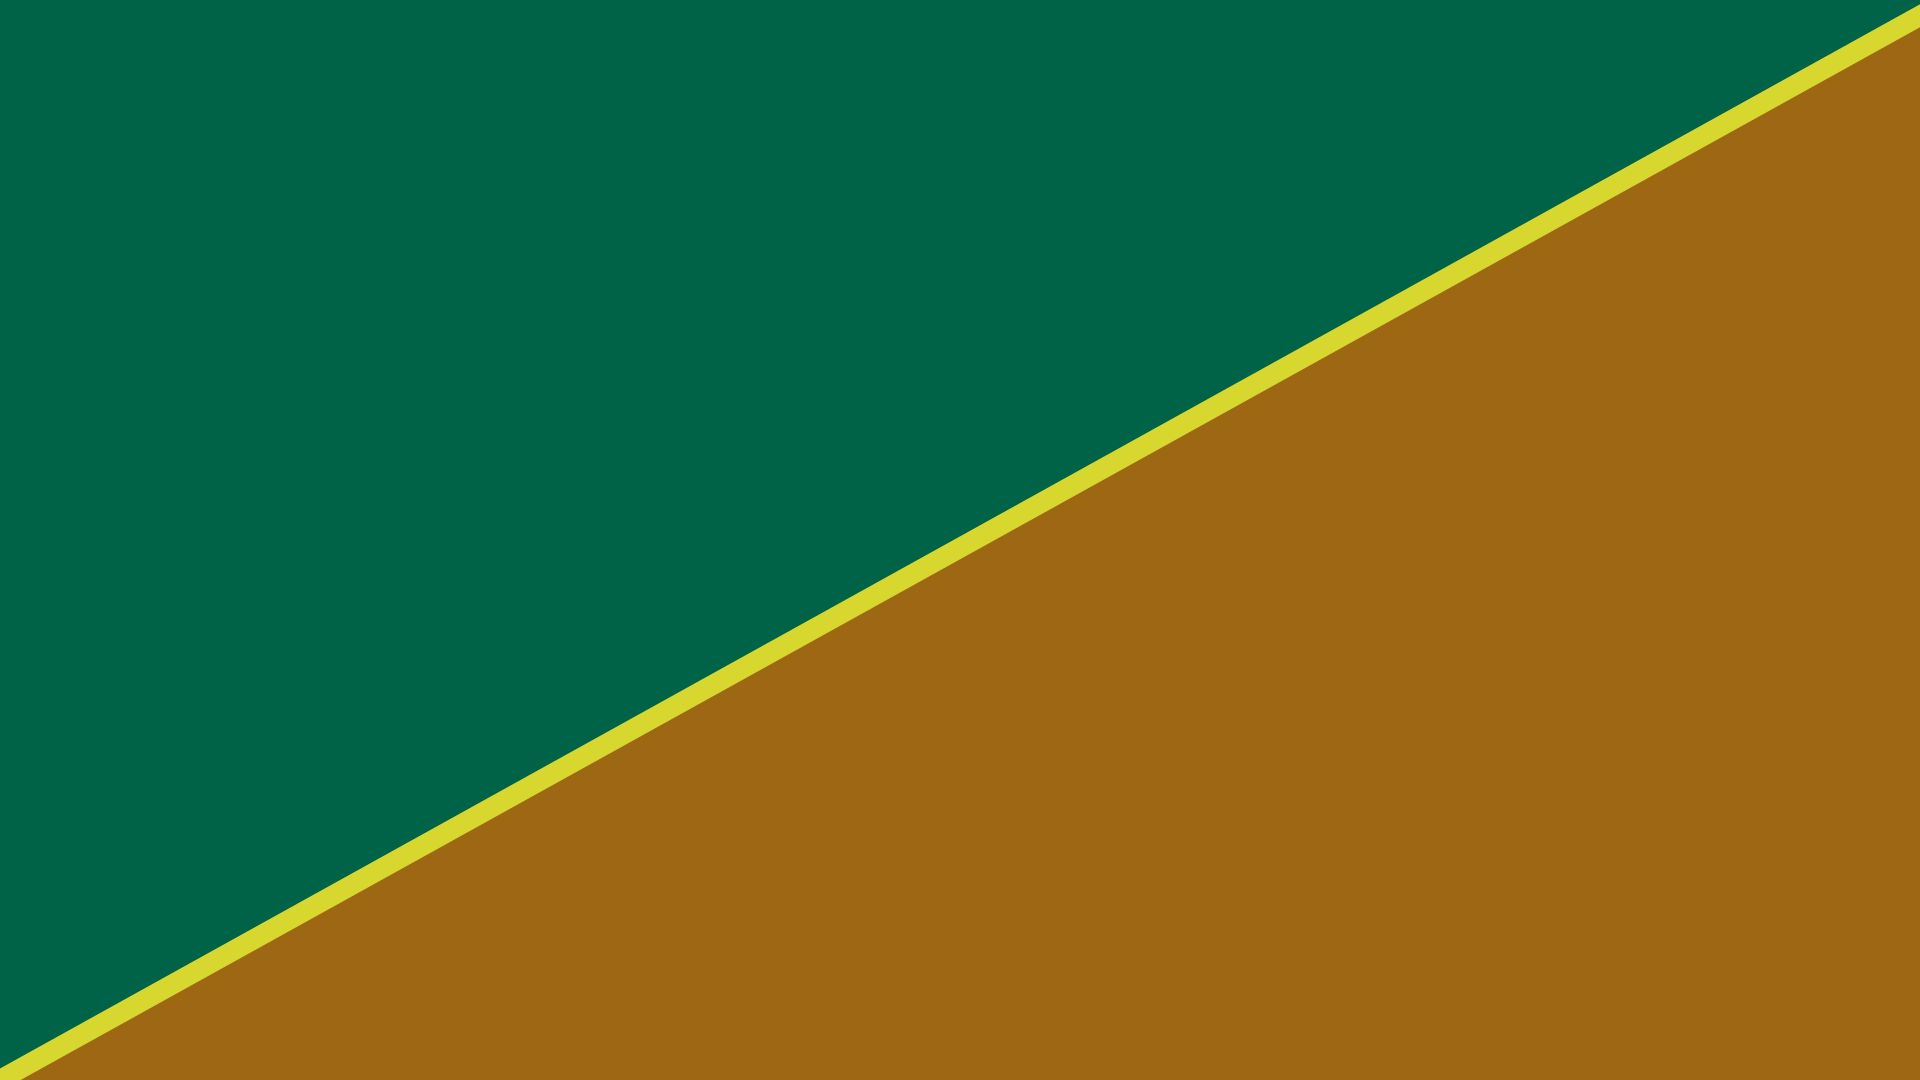
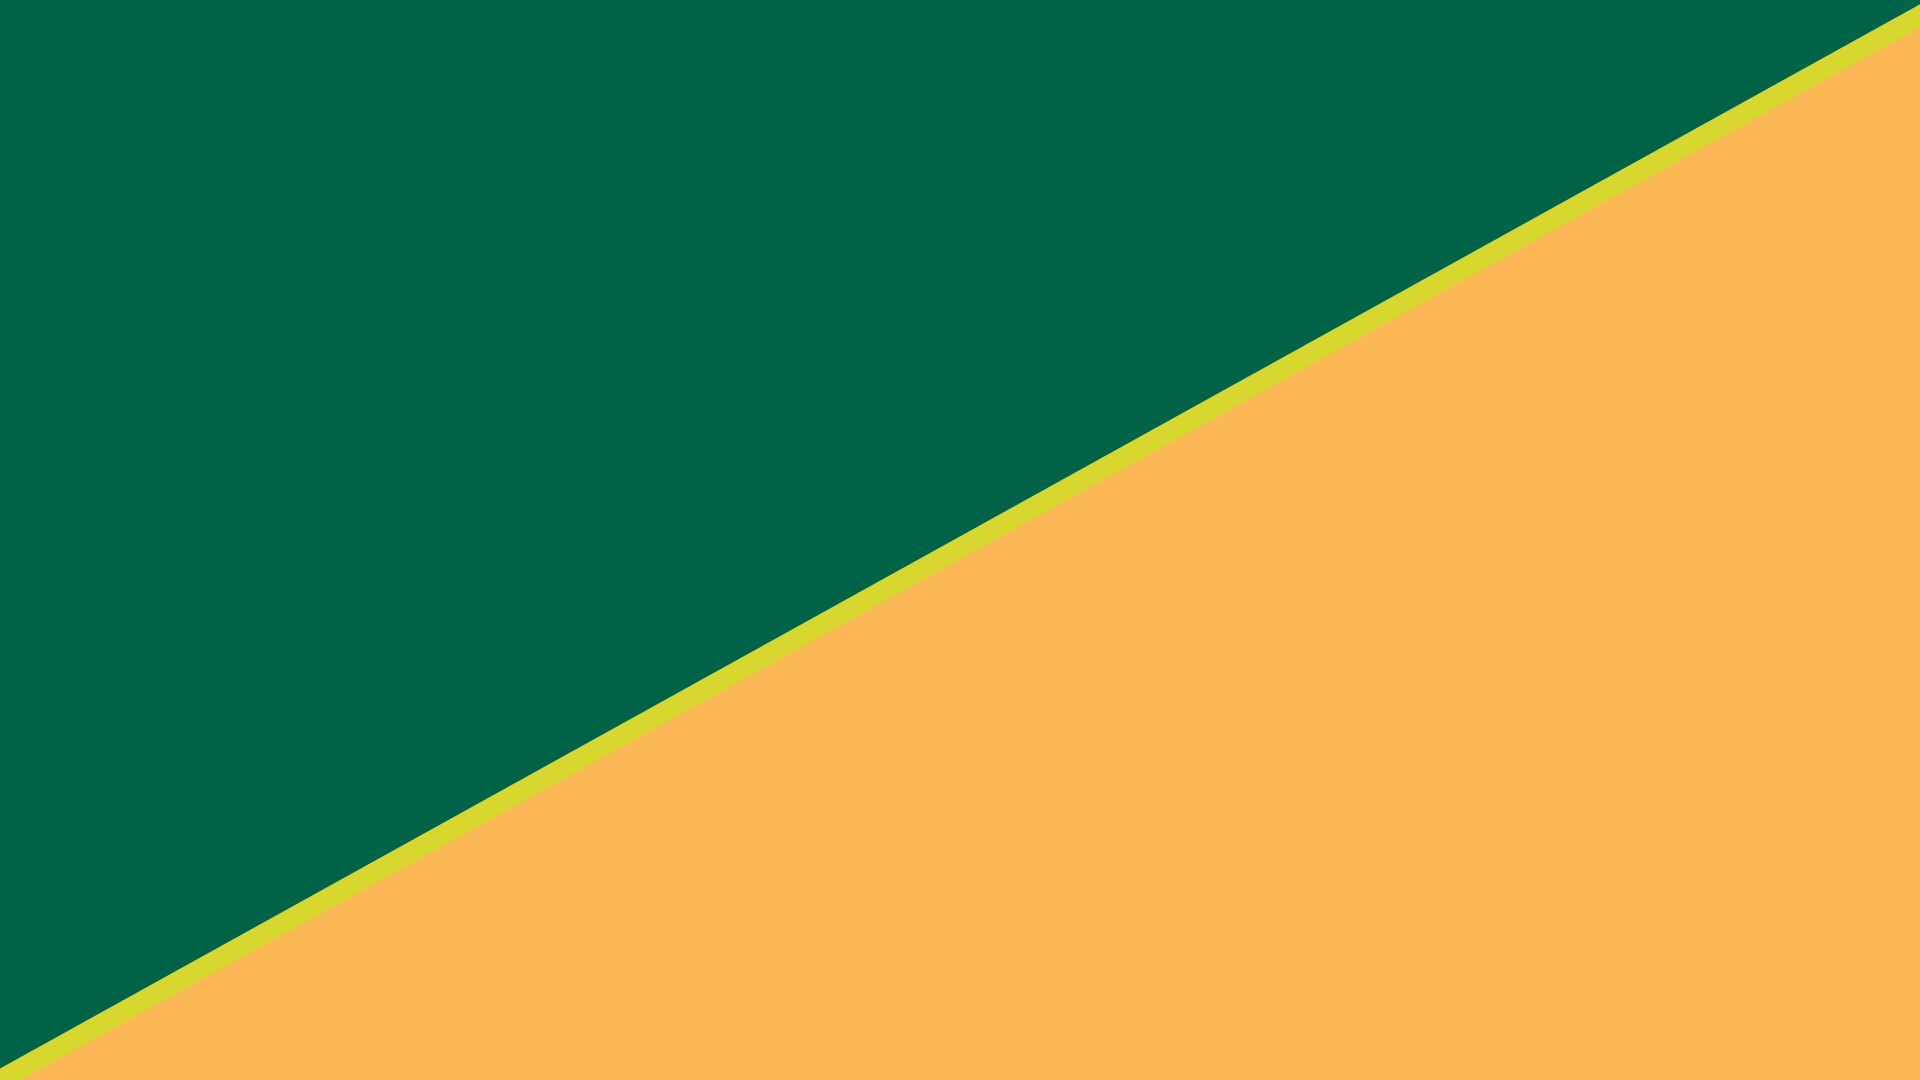
products descktop section completed

diff --git a/verchis.css b/verchis.css
@@ -296,6 +296,9 @@ h1,h2,p{
     width: 50%;
     height: 100%;
 }
+.section_products_container_product1_description_name{
+    display: none;
+}
 .section_products_container_product1_descriptioncontainer_description{
     color: #8C8C8C;
     font-size: 12px;
@@ -715,7 +718,7 @@ h1,h2,p{
     }
     .section_news_title{
         font-size: 48px;
-        margin-left: 35px;
+        margin-left: 70px;
         color: #585858;
         font-weight: 800;
     }
@@ -773,18 +776,222 @@ h1,h2,p{
     .section_news_selection_div_option_1{
         width: 20px;
         height: 20px;
-        background-color: #D9D9D9;
-        border-radius: 100%;
     }
     .section_news_selection_div_option_2{
         width: 20px;
         height: 20px;
-        background-color: #AAAAAA;
-        border-radius: 100%;
         margin-left: 20px;
         margin-right: 20px;
     }
     .section_news_selection_div_option_3{
+        width: 20px;
+        height: 20px;
+    }
+    .section_products{
+        display: flex;
+        flex-direction: column;
+        align-items: start;
+        width: 100%;
+    }
+    
+    .section_products_title{
+        color: #585858;
+        margin-left: 70px;
+        font-size: 48px;
+    }
+    .section_products_container_product1_name{
+        display: none;
+    }
+    
+    .section_products_container_product1{
+        background-color: #006347;
+        height: 500px;
+        width: 100%;
+    }
+    .section_products_container_product1_imgcontainer{
+        margin: 0;
+        height: 100%;
+        width: 100%;
+        display: flex;
+        justify-content: center;
+    }
+    .section_products_container_product1_imgcontainer_elemenstcontainer{
+        display: flex;
+        justify-content: center;
+        align-items: center;
+        height: 100%;
+        width: 100%;
+    }
+    .section_products_container_product1_imgcontainer_elemenstcontainer_arrow_left{
+        stroke: white;
+        height: 94px;
+        width: 94px;
+    }
+    .section_products_container_product1_imgcontainer_elemenstcontainer_img{
+        background-color: gray;
+        height: 90%;
+        width: 60%;
+    }
+    .section_products_container_product1_imgcontainer_elemenstcontainer_arrow_right{
+        stroke: white;
+        height: 94px;
+        width: 94px;
+    }
+    .section_products_container_product1_descriptioncontainer{
+        width: 100%;
+        height: 100%;
+        display: flex;
+        justify-content: center;
+        flex-direction: column;
+        align-items: center;
+    }
+    .section_products_container_product1_description_name{
+        display: block;
+        margin-bottom: 20px;
+        width: 350px;
+        text-align: center;
+        font-size: 45px;
+        color: white;
+    }
+    .section_products_container_product1_descriptioncontainer_description{
+        color: white;
+        font-size: 30px;
+        font-weight: 200;
+        width: 80%;
+        text-align: center;
+    }
+    .section_products_container1_descriptioncontainer_details{
+        color: white;
+        font-size: 30px;
+        font-weight: 800;
+    }
+    
+    .section_products_product1_selection_div{
+        display: flex;
+        justify-content: start;
+        background-color: #006347;
+        width: 100%;
+        height: 40px;
+        margin: 0;
+    
+    }
+    
+    .section_products_product1_selection_div_option_1{
+        margin-left: 23%;
+        width: 20px;
+        height: 20px;
+        background-color: #D9D9D9;
+        border-radius: 100%;
+    }
+    .section_products_product1_selection_div_option_2{
+        width: 20px;
+        height: 20px;
+        background-color: #FBB755;
+        border-radius: 100%;
+        margin-left: 5px;
+        margin-right: 5px;
+    }
+    .section_products_product1_selection_div_option_3{
+        width: 20px;
+        height: 20px;
+        background-color: #D9D9D9;
+        border-radius: 100%;
+    }
+    
+    .section_products_container_product2_name{
+        display: none;
+    }
+    
+    .section_products_container_product2{
+        width: 100%;
+        margin-top: 50px;
+        height: 500px;
+        background-color: #FBB755;
+    }
+    .section_products_container_product2_imgcontainer{
+        margin: 0;
+        height: 100%;
+        width: 100%;
+        display: flex;
+        justify-content: center;
+    }
+    .section_products_container_product2_imgcontainer_elemenstcontainer{
+        display: flex;
+        justify-content: center;
+        align-items: center;
+        height: 100%;
+        width: 100%;
+    }
+    .section_products_container_product2_imgcontainer_elemenstcontainer_arrow_left{
+        stroke: white;
+        height: 94px;
+        width: 94px;
+    }
+    .section_products_container_product2_imgcontainer_elemenstcontainer_img{
+        background-color: gray;
+        height: 90%;
+        width: 60%;
+    }
+    .section_products_container_product2_imgcontainer_elemenstcontainer_arrow_right{
+        stroke: white;
+        height: 94px;
+        width: 94px;
+    }
+    .section_products_container_product2_descriptioncontainer{
+        width: 100%;
+        height: 100%;
+        display: flex;
+        justify-content: center;
+        flex-direction: column;
+        align-items: center;
+    }
+    .section_products_container_product2_description_name{
+        display: block;
+        margin-bottom: 20px;
+        width: 350px;
+        text-align: center;
+        font-size: 45px;
+        color: white;
+    }
+    .section_products_container_product2_descriptioncontainer_description{
+        color: white;
+        font-size: 30px;
+        font-weight: 200;
+        width: 80%;
+        text-align: center;
+    }
+    .section_products_container_product2_descriptioncontainer_details{
+        color: white;
+        font-size: 30px;
+        font-weight: 800;
+    }
+    
+    .section_products_product2_selection_div{
+        display: flex;
+        justify-content: start;
+        background-color: #FBB755;
+        width: 100%;
+        height: 40px;
+        margin: 0;
+    
+    }
+    
+    .section_products_product2_selection_div_option_1{
+        margin-left: 23%;
+        width: 20px;
+        height: 20px;
+        background-color: #D9D9D9;
+        border-radius: 100%;
+    }
+    .section_products_product2_selection_div_option_2{
+        width: 20px;
+        height: 20px;
+        background-color: #eeff06;
+        border-radius: 100%;
+        margin-left: 5px;
+        margin-right: 5px;
+    }
+    .section_products_product2_selection_div_option_3{
         width: 20px;
         height: 20px;
         background-color: #D9D9D9;

diff --git a/index.html b/index.html
@@ -175,11 +175,16 @@
             <h2 class="section_products_container_product1_name">Snack de platano verde</h2>
             <div class="section_products_container_product1_imgcontainer">
                 <div class="section_products_container_product1_imgcontainer_elemenstcontainer">
-                    <img class="section_products_container_product1_imgcontainer_elemenstcontainer_arrow_left" src="./assets/arrows_left.svg" alt="">
+                    <svg class="section_products_container_product1_imgcontainer_elemenstcontainer_arrow_left" xmlns="http://www.w3.org/2000/svg" fill="none" viewBox="0 0 24 24" stroke-width="1.5" stroke="currentColor" class="w-6 h-6">
+                        <path stroke-linecap="round" stroke-linejoin="round" d="M15.75 19.5 8.25 12l7.5-7.5" />
+                      </svg>
                     <img class="section_products_container_product1_imgcontainer_elemenstcontainer_img" src="" alt="">
-                     <img class="section_products_container_product1_imgcontainer_elemenstcontainer_arrow_right" src="./assets/arrow_right.svg" alt="">
+                    <svg class="section_products_container_product1_imgcontainer_elemenstcontainer_arrow_right" xmlns="http://www.w3.org/2000/svg" fill="none" viewBox="0 0 24 24" stroke-width="1.5" stroke="currentColor" class="w-6 h-6">
+                        <path stroke-linecap="round" stroke-linejoin="round" d="m8.25 4.5 7.5 7.5-7.5 7.5" />
+                      </svg>
                 </div>
                 <div class="section_products_container_product1_descriptioncontainer">
+                    <h2 class="section_products_container_product1_description_name">Snack de platano verde</h2>
                     <p class="section_products_container_product1_descriptioncontainer_description">Lorem ipsum, dolor sit amet consectetur adipisicing elit. Iure, inventore deserunt quaerat aliquam omnis </p>
                     <p class="section_products_container1_descriptioncontainer_details">Detalles</p>
                 </div>
@@ -194,13 +199,18 @@
             <h2 class="section_products_container_product2_name">Snack de platano maduro</h2>
             <div class="section_products_container_product2_imgcontainer">
                 <div class="section_products_container_product2_imgcontainer_elemenstcontainer">
-                    <img class="section_products_container_product2_imgcontainer_elemenstcontainer_arrow_left" src="./assets/arrows_left.svg" alt="">
+                    <svg class="section_products_container_product2_imgcontainer_elemenstcontainer_arrow_left" xmlns="http://www.w3.org/2000/svg" fill="none" viewBox="0 0 24 24" stroke-width="1.5" stroke="currentColor" class="w-6 h-6">
+                        <path stroke-linecap="round" stroke-linejoin="round" d="M15.75 19.5 8.25 12l7.5-7.5" />
+                      </svg>
                     <img class="section_products_container_product2_imgcontainer_elemenstcontainer_img" src="" alt="">
-                     <img class="section_products_container_product2_imgcontainer_elemenstcontainer_arrow_right" src="./assets/arrow_right.svg" alt="">
+                    <svg class="section_products_container_product2_imgcontainer_elemenstcontainer_arrow_right" xmlns="http://www.w3.org/2000/svg" fill="none" viewBox="0 0 24 24" stroke-width="1.5" stroke="currentColor" class="w-6 h-6">
+                        <path stroke-linecap="round" stroke-linejoin="round" d="m8.25 4.5 7.5 7.5-7.5 7.5" />
+                      </svg>                      
                 </div>
                 <div class="section_products_container_product2_descriptioncontainer">
+                    <h2 class="section_products_container_product2_description_name">Snack de platano maduro</h2>
                     <p class="section_products_container_product2_descriptioncontainer_description">Lorem ipsum, dolor sit amet consectetur adipisicing elit. Iure, inventore deserunt quaerat aliquam omnis </p>
-                    <p class="section_products_container1_descriptioncontainer_details">Detalles</p>
+                    <p class="section_products_container_product2_descriptioncontainer_details">Detalles</p>
                 </div>
             </div>
         </div>
